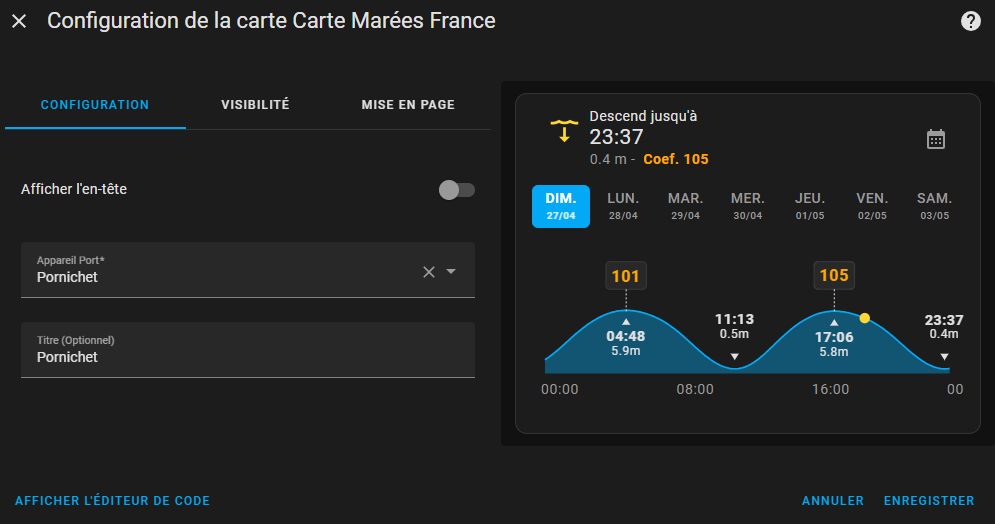
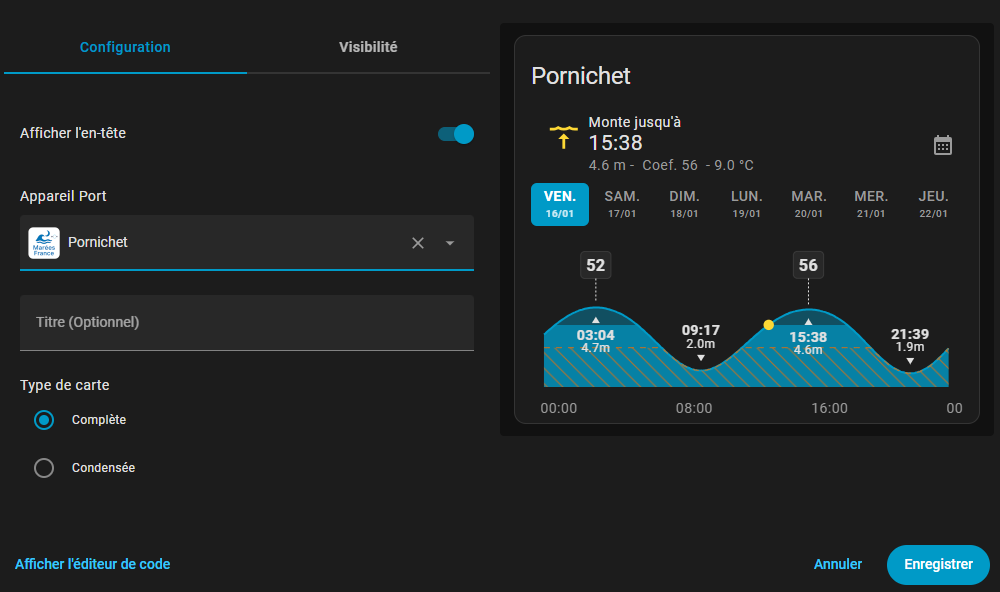
- hatch instead of color areas - Current depth on current day graph - Readme + Readme images

diff --git a/frontend/src/graph-renderer.ts b/frontend/src/graph-renderer.ts
@@ -199,6 +199,29 @@ export class GraphRenderer {
     });
   }
 
+  //Factory to create a hatch pattern for zones (like danger/no-go zone)
+  private createHatchPattern(
+    svg: Svg,
+    id: string,
+    strokeColor: string,
+    size = 10,
+    opacity = 0.4
+  ): SvgElement {
+    return svg.pattern(size, size, (add) => {
+      const strokeConfig = {
+        color: strokeColor,
+        width: 0.8,
+        linecap: 'square',
+        opacity: opacity,
+      };
+
+      //3 lines to create the hatch effect (3 needed to cover the angle)
+      add.line(0, 0, size, size).stroke(strokeConfig);
+      add.line(size, 0, 2 * size, size).stroke(strokeConfig);
+      add.line(-size, 0, 0, size).stroke(strokeConfig);
+    }).id(id);
+  }
+
   public drawGraph(
     tideData: GetTidesDataResponseData | null,
     waterLevels: GetWaterLevelsResponseData | null,
@@ -317,14 +340,23 @@ export class GraphRenderer {
 
     //Prepare informations needed to draw graph
     const draw = this.svgDraw;
-    const firstX = this._timeToX(this.pointsData[0].totalMinutes), lastX = this._timeToX(this.pointsData[this.pointsData.length - 1].totalMinutes);
+    const firstX = this._timeToX(this.pointsData[0].totalMinutes);
+    const lastX = this._timeToX(this.pointsData[this.pointsData.length - 1].totalMinutes);
     const fillBottomY = this.graphMargin.top + this.graphHeight;
-    const minDepthAvailable = this.harborMinDepth?.harborMinDepth !== null && this.harborMinDepth?.harborMinDepth !== 0;
     var currentDepth: number | null = null;
 
     //Compute current depth & temperature (interpolate)
     const now = new Date();
     const currentMinutes = now.getHours() * 60 + now.getMinutes();
+
+    //pathCurve is the main height curve line (always drawn)
+    const pathCurve = this.pointsData.map(p => `L ${this._timeToX(p.totalMinutes).toFixed(2)} ${this._heightToY(p.heightNum).toFixed(2)}`).join(' ').replace('L', 'M');
+
+    //fillPath is the area under the curve to fill (from height curve to bottomY or to current depth if applicable)
+    var fillPath = `M ${firstX.toFixed(2)} ${fillBottomY.toFixed(2)} ${pathCurve.replace(/^M/, 'L')} L ${lastX.toFixed(2)} ${fillBottomY.toFixed(2)} Z`;
+    //fillCurrentHeight is the area under the curve up to current depth (if applicable)
+    var fillCurrentHeight = null; //By default no area to fill
+
     if (this.curveMinMinutes <= currentMinutes && currentMinutes <= this.curveMaxMinutes) {
       currentDepth = this._interpolateHeight(currentMinutes); //Compute current depth
 
@@ -332,95 +364,52 @@ export class GraphRenderer {
         //If selected day == current : compute current temp & TimeMarkerData position.
         const t = this._interpolateWaterTemp(currentMinutes);
         this.currentTimeMarkerData = { x: this._timeToX(currentMinutes), y: this._heightToY(currentDepth), timeStr: now.toLocaleTimeString(locale, { hour: '2-digit', minute: '2-digit' }), heightStr: currentDepth.toFixed(2), totalMinutes: currentMinutes, height: currentDepth, water_temp: t ?? undefined };
+
+        //Temporary path to show max between current depth and actual curve (to avoid area above current depth)
+        const pathCurveMax = this.pointsData.map(p => `L ${this._timeToX(p.totalMinutes).toFixed(2)} ${this._heightToY(Math.max(currentDepth!, p.heightNum)).toFixed(2)}`).join(' ').replace('L', 'M');
+        //Redefine fillPath to fill only up to current depth
+        fillPath = `M ${firstX.toFixed(2)} ${this._heightToY(currentDepth!).toFixed(2)} ${pathCurveMax.replace(/^M/, 'L')} L ${lastX.toFixed(2)} ${this._heightToY(currentDepth!).toFixed(2)} Z`;
+
+        //Temporary path for current depth area
+        var pathCurrentHeight = this.pointsData.map(p => `L ${this._timeToX(p.totalMinutes).toFixed(2)} ${this._heightToY(Math.min(p.heightNum, currentDepth!)).toFixed(2)}`).join(' ').replace('L', 'M');
+        //Redefine fillCurrentHeight to fill area from current depth to bottomY
+        fillCurrentHeight = `M ${firstX.toFixed(2)} ${fillBottomY.toFixed(2)} ${pathCurrentHeight.replace(/^M/, 'L')} L ${lastX.toFixed(2)} ${fillBottomY.toFixed(2)} Z`;
       }
     }
 
-    //There are 3 differents ways to display the graph.
-    if (!(minDepthAvailable && this.harborMinDepth?.harborMinDepth !== undefined)) {
-      //Case Harbor min depth setting not available or set to default value (zero)
-      // -1st way : graph shows the depth curve, filled under using primary-color
-      const curveColor = 'var(--primary-color, blue)';
-      const pathData = this.pointsData.map(p => `L ${this._timeToX(p.totalMinutes).toFixed(2)} ${this._heightToY(p.heightNum).toFixed(2)}`).join(' ').replace('L', 'M');
-      const firstX = this._timeToX(this.pointsData[0].totalMinutes), lastX = this._timeToX(this.pointsData[this.pointsData.length - 1].totalMinutes);
-      const fillPath = `M ${firstX.toFixed(2)} ${fillBottomY.toFixed(2)} ${pathData.replace(/^M/, 'L')} L ${lastX.toFixed(2)} ${fillBottomY.toFixed(2)} Z`;
+    //Define curve color
+    const curveColor = 'var(--primary-color, blue)';
+    //Define hatch pattern for danger/no-go zone
+    var dangerZoneLineOpacity = 1;
+    var dangerZoneHatch = this.createHatchPattern(
+      this.svgDraw,
+      'dangerZoneHatch', //Id of the pattern
+      'var(--ha-color-focus, orange)', //Stroke color of the pattern
+      18, //Size of the pattern square
+      dangerZoneLineOpacity, //Line opacity to fade the pattern
+    );
 
-      //Draw depth curve and its bottom filled
-      draw.path(fillPath).fill({ color: curveColor, opacity: 0.4 }).stroke('none').attr({ 'shape-rendering': 'geometricPrecision', 'vector-effect': 'non-scaling-stroke' });
-      draw.path(pathData).fill('none').stroke({ color: curveColor, width: 2 }).attr({ 'shape-rendering': 'geometricPrecision', 'vector-effect': 'non-scaling-stroke' });
+    //Drawing Height Curve & fill area under curve (to bottomY or current depth for current day)
+    draw.path(fillPath).fill({ color: curveColor, opacity: 0.4 }).stroke('none').attr({ 'shape-rendering': 'geometricPrecision', 'vector-effect': 'non-scaling-stroke' });
+    draw.path(pathCurve).fill('none').stroke({ color: curveColor, width: 2 }).attr({ 'shape-rendering': 'geometricPrecision', 'vector-effect': 'non-scaling-stroke' });
+
+
+    if (fillCurrentHeight !== null) { //If applicable === current day & current depth computed
+      //Drawing area from current depth to bottomY
+      draw.path(fillCurrentHeight).fill({ color: curveColor, opacity: 0.8 }).stroke('none').attr({ 'shape-rendering': 'geometricPrecision', 'vector-effect': 'non-scaling-stroke' });
     }
-    else {
-      //Else, we're in the case harbor min depth is available and > 0
-      if (selectedDay === now.toISOString().slice(0, 10)) {
-        //Case selected day is current day
-        // -2nd way : We display the graph with a different layout to show 3 zones :
-        //      - Current depth : represents water level (blue)
-        //      - Go zone : area over min Depth (green)
-        //      - NoGo zone : area under min depth (red)
-        if (currentDepth !== null) {
-          const tsIssue_currentDepth = currentDepth ///TS issue in some max function bellow, still considering currentDepth can be null ...
-          const harborMinDepthValue = this.harborMinDepth?.harborMinDepth;
 
-          //PathCurve is depth curve
-          const pathCurve = this.pointsData.map(p => `L ${this._timeToX(p.totalMinutes).toFixed(2)} ${this._heightToY(p.heightNum).toFixed(2)}`).join(' ').replace('L', 'M');
+    //Drawing danger/no-go zone if harborMinDepth is defined and relevant
+    if (this.harborMinDepth?.harborMinDepth !== null && this.harborMinDepth?.harborMinDepth !== 0 && this.harborMinDepth?.harborMinDepth !== undefined) {
+      const harborMinDepthValue = this.harborMinDepth?.harborMinDepth;
 
-          //pathCurrentHeight is the current depth curve (not display, used to compute the area fillCurrentHeight)
-          const pathCurrentHeight = this.pointsData.map(p => `L ${this._timeToX(p.totalMinutes).toFixed(2)} ${this._heightToY(Math.min(p.heightNum, tsIssue_currentDepth)).toFixed(2)}`).join(' ').replace('L', 'M');
-          //fillCurrentHeight is the area representing the current level of water
-          const fillCurrentHeight = `M ${firstX.toFixed(2)} ${fillBottomY.toFixed(2)} ${pathCurrentHeight.replace(/^M/, 'L')} L ${lastX.toFixed(2)} ${fillBottomY.toFixed(2)} Z`;
-
-          //pathDataMinDepth is the curve representing the minimum depth, used to compute the nogo area, displayed as dashed when there is not nogo zone to display )
-          const pathDataMinDepth = this.pointsData.map(p => `L ${this._timeToX(p.totalMinutes).toFixed(2)} ${this._heightToY(Math.min(p.heightNum, harborMinDepthValue)).toFixed(2)}`).join(' ').replace('L', 'M');
-          //pathDataMinDepthMin is a working curve used to compute fillPathMinDepth (the nogo zone)
-          const pathDataMinDepthMin = this.pointsData.map(p => `L ${this._timeToX(p.totalMinutes).toFixed(2)} ${this._heightToY(Math.max(Math.min(p.heightNum, harborMinDepthValue), tsIssue_currentDepth)).toFixed(2)}`).join(' ').replace('L', 'M');
-          //fillPathMinDepth is the area of the nogo zone, diplayed in red to illustrate the depth bellow you can't navigate
-          const fillPathMinDepth = `M ${firstX.toFixed(2)} ${this._heightToY(tsIssue_currentDepth).toFixed(2)} ${pathDataMinDepthMin.replace(/^M/, 'L')} L ${lastX.toFixed(2)} ${this._heightToY(tsIssue_currentDepth).toFixed(2)} Z`;
-          //pathCurveMax is a working curve used to compute fillPath (the go zone)
-          const pathCurveMax = this.pointsData.map(p => `L ${this._timeToX(p.totalMinutes).toFixed(2)} ${this._heightToY(Math.max(tsIssue_currentDepth, harborMinDepthValue, p.heightNum)).toFixed(2)}`).join(' ').replace('L', 'M');
-          //fillPath is the area of the go zone, diplayed in green to illustrate the depth in which you can navigate
-          const fillPath = `M ${firstX.toFixed(2)} ${this._heightToY(Math.max(tsIssue_currentDepth, harborMinDepthValue)).toFixed(2)} ${pathCurveMax.replace(/^M/, 'L')} L ${lastX.toFixed(2)} ${this._heightToY(Math.max(tsIssue_currentDepth, harborMinDepthValue)).toFixed(2)} Z`;
-
-          //In some condition, nogo zone area is empty and if in the graph scale
-          if (tsIssue_currentDepth > harborMinDepthValue && this._heightToY(harborMinDepthValue) < fillBottomY) {
-            //we display a red dashed line to represent the minimum depth under which you should not enter/leave the harbor
-            draw.path(pathDataMinDepth).fill('none').stroke({ color: 'red', width: 1 }).attr({ 'shape-rendering': 'geometricPrecision', 'vector-effect': 'non-scaling-stroke', 'stroke-dasharray': '2' });
-          }
-
-          //Drawing the depth curve and the 3 areas
-          draw.path(fillCurrentHeight).fill({ color: 'blue', opacity: 0.4 }).stroke('none').attr({ 'shape-rendering': 'geometricPrecision', 'vector-effect': 'non-scaling-stroke' });
-          draw.path(pathCurve).fill('none').stroke({ color: 'blue', width: 2 }).attr({ 'shape-rendering': 'geometricPrecision', 'vector-effect': 'non-scaling-stroke' });
-          draw.path(fillPath).fill({ color: 'green', opacity: 0.4 }).stroke('none').attr({ 'shape-rendering': 'geometricPrecision', 'vector-effect': 'non-scaling-stroke' });
-          draw.path(fillPathMinDepth).fill({ color: 'red', opacity: 0.4 }).stroke('none').attr({ 'shape-rendering': 'geometricPrecision', 'vector-effect': 'non-scaling-stroke' });
-        }
-        else
-          return
-      }
-      else {
-        //Else, not current day
-        // -3rd way : We draw the graph with two areas :
-        //      - Go zone : area over min Depth (green)
-        //      - NoGo zone : area under min depth (blue)
-
-        const harborMinDepthValue = this.harborMinDepth?.harborMinDepth;
-
-        //PathCurve is depth curve
-        const pathCurve = this.pointsData.map(p => `L ${this._timeToX(p.totalMinutes).toFixed(2)} ${this._heightToY(p.heightNum).toFixed(2)}`).join(' ').replace('L', 'M');
-        //pathCurveMax is a working curve used to compute fillPath (the go zone)
-        const pathCurveMax = this.pointsData.map(p => `L ${this._timeToX(p.totalMinutes).toFixed(2)} ${this._heightToY(Math.max(harborMinDepthValue, p.heightNum)).toFixed(2)}`).join(' ').replace('L', 'M');
-        //fillPath is the area of the go zone, diplayed in green to illustrate the depth in which you can navigate
-        const fillPath = `M ${firstX.toFixed(2)} ${this._heightToY(harborMinDepthValue).toFixed(2)} ${pathCurveMax.replace(/^M/, 'L')} L ${lastX.toFixed(2)} ${this._heightToY(harborMinDepthValue).toFixed(2)} Z`;
-        //pathDataMinDepth is the curve representing the minimum depth, used to compute the nogo area fillPathMinDepth
-        const pathDataMinDepth = this.pointsData.map(p => `L ${this._timeToX(p.totalMinutes).toFixed(2)} ${this._heightToY(Math.min(p.heightNum, harborMinDepthValue)).toFixed(2)}`).join(' ').replace('L', 'M');
-        //fillPathMinDepth is the area of the nogo zone, diplayed in red to illustrate the depth bellow you can't navigate
+      //Compute and draw only if the min depth line is actually visible in the graph
+      if (this._heightToY(harborMinDepthValue!) < fillBottomY) {
+        const pathDataMinDepth = this.pointsData.map(p => `L ${this._timeToX(p.totalMinutes).toFixed(2)} ${this._heightToY(Math.min(p.heightNum, harborMinDepthValue!)).toFixed(2)}`).join(' ').replace('L', 'M');
         const fillPathMinDepth = `M ${firstX.toFixed(2)} ${fillBottomY.toFixed(2)} ${pathDataMinDepth.replace(/^M/, 'L')} L ${lastX.toFixed(2)} ${fillBottomY.toFixed(2)} Z`;
-
-        //Drawing the depth curve and the green area
-        draw.path(pathCurve).fill('none').stroke({ color: 'blue', width: 2 }).attr({ 'shape-rendering': 'geometricPrecision', 'vector-effect': 'non-scaling-stroke' });
-        draw.path(fillPath).fill({ color: 'green', opacity: 0.4 }).stroke('none').attr({ 'shape-rendering': 'geometricPrecision', 'vector-effect': 'non-scaling-stroke' });
-
-        //Drawing the nogo zone if in the graph scale
-        if (this._heightToY(harborMinDepthValue) < fillBottomY) {
-          draw.path(fillPathMinDepth).fill({ color: 'red', opacity: 0.4 }).stroke('none').attr({ 'shape-rendering': 'geometricPrecision', 'vector-effect': 'non-scaling-stroke' });
-        }
+        //Draw min depth line & filled hatch area under the min depth line
+        draw.path(pathDataMinDepth).fill('none').stroke({ color: 'var(--ha-color-focus, orange)', width: 0.8, opacity: dangerZoneLineOpacity }).attr({ 'shape-rendering': 'geometricPrecision', 'vector-effect': 'non-scaling-stroke', 'stroke-dasharray': '6' });
+        draw.path(fillPathMinDepth).fill(dangerZoneHatch).stroke('none').attr({ 'shape-rendering': 'geometricPrecision', 'vector-effect': 'non-scaling-stroke' });
       }
     }
 

diff --git a/README-fr.md b/README-fr.md
@@ -86,8 +86,8 @@ Même attributs que ci-dessus, pour l’événement de marée précédent.
 - **Description** : Profondeur d'eau minimale configurable requise pour que votre bateau navigue en sécurité
 - **Valeur par défaut** : 0 mètres
 - **Caractéristiques** :
-  - Définir cette valeur permettra à l'intégration d'adapter le design des graphiques pour afficher les périodes sur lesquelles il est possible d'entrer/sortir du port. (La hauteur actuelle est uniquement affichée sur le jour courant)
-  - Activer la fonctionnalité permet également d'afficher, pour le jour courant, la hauteur actuelle d'eau.
+  - Définir cette valeur permettra à l'intégration d'adapter le design des graphiques pour afficher une zone hachurée indicant la hauteur d'eau en dessous de laquelle il est recommandé de ne pas sortir/entrer dans le port.
+  - La valeur est à définir en fonction de votre expérience dans le port, en prenant en compte le tirant d'eau de votre bateau ainsi que le votre pied de pilote
   - Ajustable à partir de 0 mètre par incréments de 0,1 mètre
   - La valeur persiste lors des redémarrages de Home Assistant
   - Mise à jour en temps réel des données du coordinateur lors du changement

diff --git a/README.md b/README.md
@@ -88,11 +88,11 @@ Same attributes as above, for the last tide event.
 ### Minimum Depth To Boat
 
 - **Type**: Number entity
-- **Description**: Configurable minimum water depth required for your boat to safely navigate
+- **Description**: Configurable minimum water depth required for your boat to safely enter/leave the harbor.
 - **Default**: 0 meters
 - **Features**:
-  - Setting this value will adapt graphics layouts by adding colored 'zones' that indicate the time slot to safely leave/enter the port.
-  - Activating this feature will display current depth on current day graph.
+  - Setting this value will adapt graphics layouts by adding an hatched zone that indicates a danger depth bellow which you should not enter/leave the port. (or at you own risks)
+  - The value should be determined based on your experience in the harbor, taking into account the draft of your boat and keel clearance.
   - Adjustable from 0 meters with 0.1 meter increments
   - Value persists across Home Assistant restarts
   - Real-time update of coordinator data when changed
